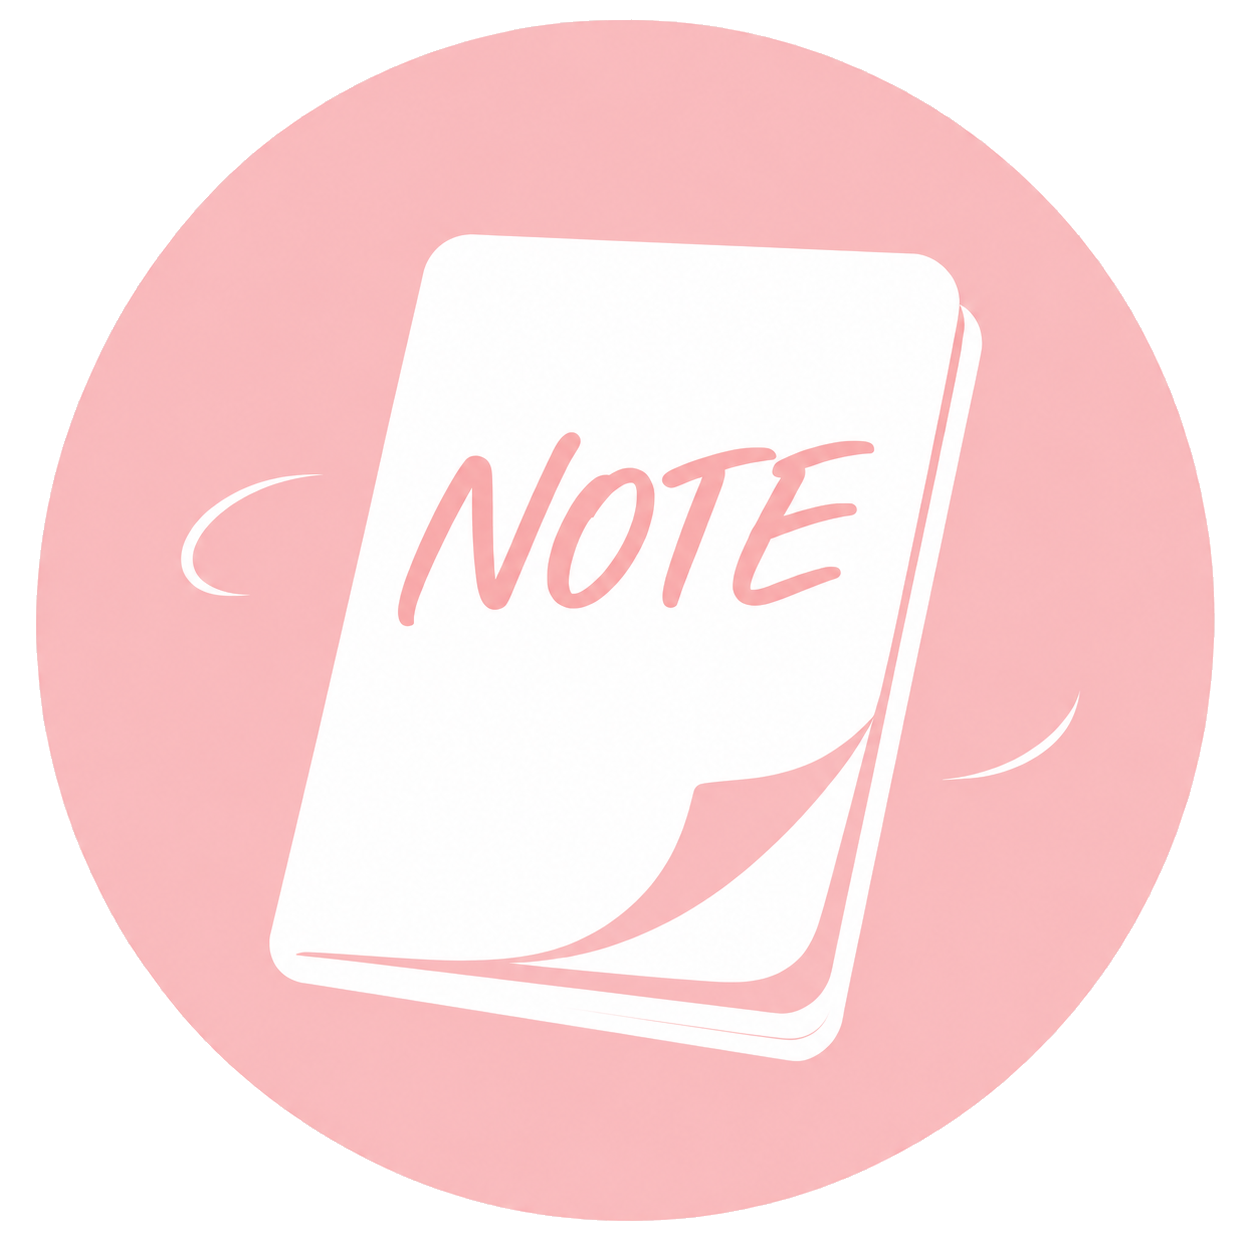
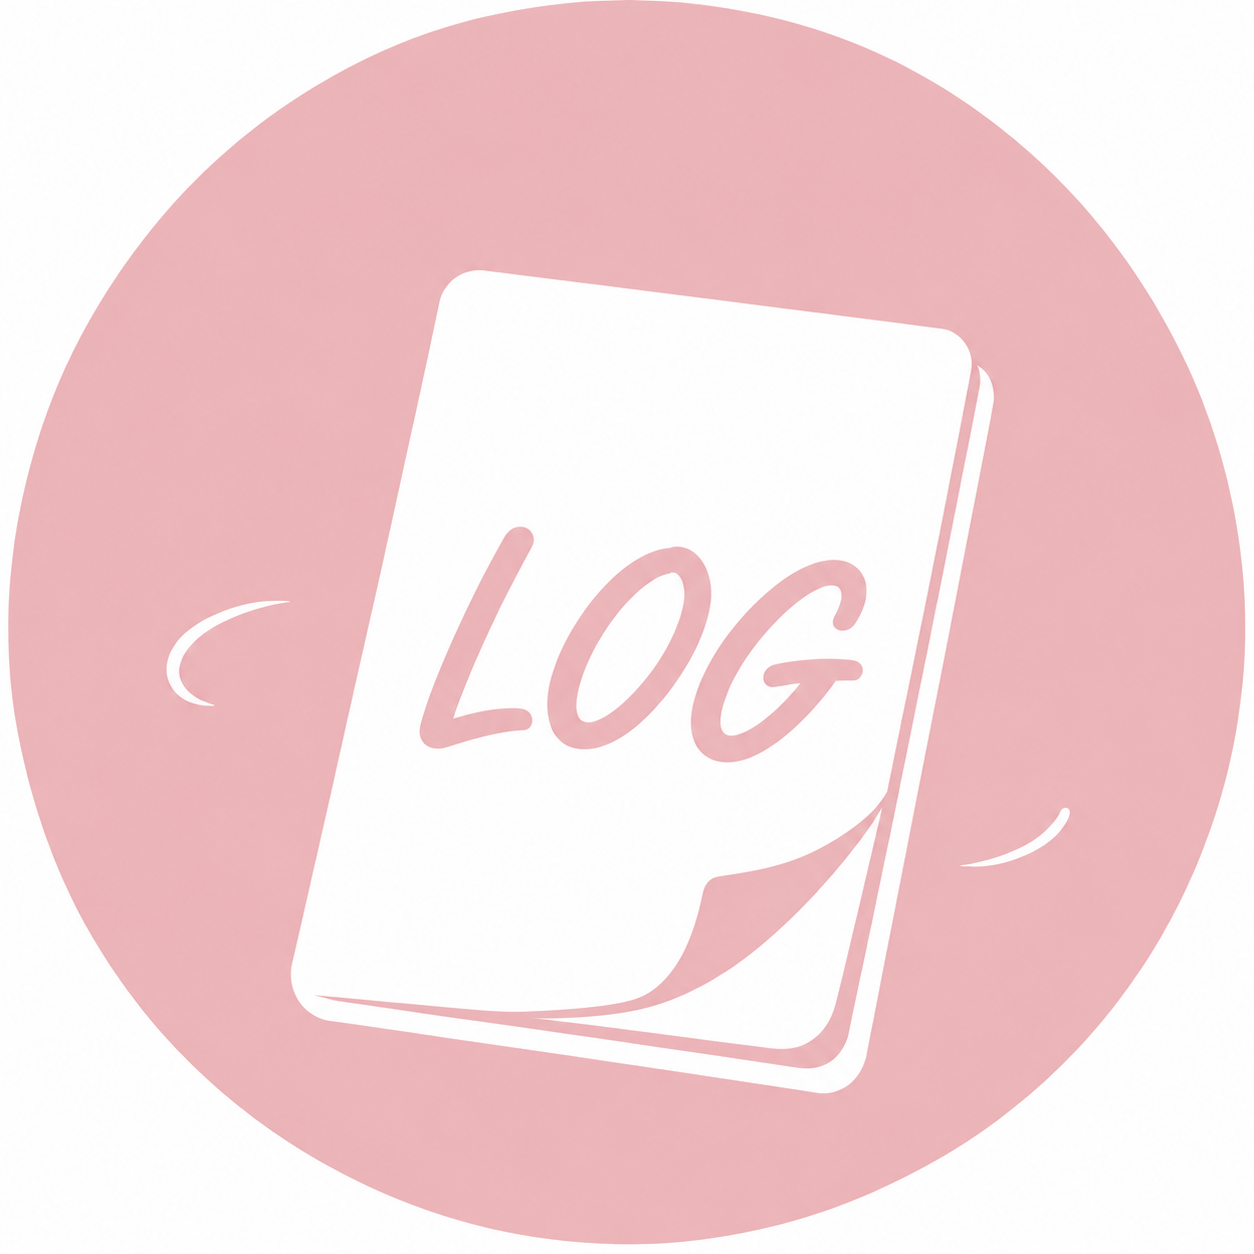
feat: 改名為 SPARK LOG，解決 bundle identifier 撞名問題
app.json 的 name/slug/scheme、android.package、ios.bundleIdentifier
都從 sparknotes/com.sparknotes.app 改成 sparklog/com.sparklog.app，
解決上次卡住的 Apple bundle ID 全域唯一性衝突（疑似跟 SparkNotes
品牌撞名）。

一併更新：
- App 圖示（icon.png、favicon.png）換成新設計的「LOG」版本
- 首頁標題、備份檔名前綴、分享對話框文字等使用者看得到的文字
- 本機 SQLite 資料庫檔名 sparknotes.db → sparklog.db（尚未上架，無
  真實使用者資料，安全）
- package.json name、README.md 標題

已知範圍外的缺口：Android adaptive icon 的三張圖層
（android-icon-foreground/background/monochrome.png）還是舊的
「NOTE」設計，因為只有拿到一張合併好的圖示、沒有分層素材，這次沒有
動；iOS/主要 icon 已經是新版。

diff --git a/app/settings.tsx b/app/settings.tsx
@@ -91,7 +91,7 @@ export default function SettingsScreen() {
       const zipBase64 = await buildBackupZip();
 
       const fileUri = await FileSystem.StorageAccessFramework.createFileAsync(
-        directoryUri, 'sparknotes-backup', 'application/zip',
+        directoryUri, 'sparklog-backup', 'application/zip',
       );
       await FileSystem.writeAsStringAsync(fileUri, zipBase64, { encoding: FileSystem.EncodingType.Base64 });
 
@@ -111,7 +111,7 @@ export default function SettingsScreen() {
   // iOS 沒有 StorageAccessFramework（那是 Android 專屬的「選擇資料夾」機制），
   // 存到 documentDirectory：因為 app.json 開了 UIFileSharingEnabled +
   // LSSupportsOpeningDocumentsInPlace，這個資料夾會直接出現在「檔案」App
-  // 的「我的 iPhone > SPARKNOTES」裡，不必依賴分享面板「儲存到檔案」是否
+  // 的「我的 iPhone > SPARK LOG」裡，不必依賴分享面板「儲存到檔案」是否
   // 真的有成功（之前用 cacheDirectory + 分享面板時，使用者反應存了之後在
   // 「檔案」App 裡完全搜不到）。分享面板仍然保留，方便直接傳給別人。
   const runExportShare = async () => {
@@ -120,21 +120,21 @@ export default function SettingsScreen() {
       const zipBase64 = await buildBackupZip();
 
       const stamp = new Date().toISOString().slice(0, 10);
-      const fileUri = `${FileSystem.documentDirectory}sparknotes-backup-${stamp}.zip`;
+      const fileUri = `${FileSystem.documentDirectory}sparklog-backup-${stamp}.zip`;
       await FileSystem.writeAsStringAsync(fileUri, zipBase64, { encoding: FileSystem.EncodingType.Base64 });
 
       await finishProgress();
 
       Alert.alert(
         '匯出完成',
-        `備份已存到「檔案」App 的「我的 iPhone / SPARKNOTES」資料夾（sparknotes-backup-${stamp}.zip）。\n\n也可以在接下來的分享視窗選擇傳送給其他 App。`,
+        `備份已存到「檔案」App 的「我的 iPhone / SPARK LOG」資料夾（sparklog-backup-${stamp}.zip）。\n\n也可以在接下來的分享視窗選擇傳送給其他 App。`,
       );
 
       const available = await Sharing.isAvailableAsync();
       if (available) {
         await Sharing.shareAsync(fileUri, {
           mimeType: 'application/zip',
-          dialogTitle: 'SPARKNOTE 備份',
+          dialogTitle: 'SPARK LOG 備份',
         });
       }
     } catch {

diff --git a/app/index.tsx b/app/index.tsx
@@ -10,7 +10,7 @@ export default function HomeScreen() {
 
   return (
     <SafeAreaView style={[styles.container, { backgroundColor: themeColor }]}>
-      <Text style={styles.title}>SPARK NOTE</Text>
+      <Text style={styles.title}>SPARK LOG</Text>
 
       <View style={styles.bottom}>
         <TouchableOpacity style={styles.settingsBtn} onPress={() => router.push('/settings')}>

diff --git a/src/__tests__/utils/exportImport.test.ts b/src/__tests__/utils/exportImport.test.ts
@@ -35,7 +35,7 @@ test('parseBackup throws on wrong version', () => {
 });
 
 test('photoFilename extracts the last path segment from a file URI', () => {
-  expect(photoFilename('file:///data/user/0/com.sparknotes.app/files/photos/abc.jpg')).toBe('abc.jpg');
+  expect(photoFilename('file:///data/user/0/com.sparklog.app/files/photos/abc.jpg')).toBe('abc.jpg');
 });
 
 test('photoFilename returns bare filenames unchanged', () => {

diff --git a/src/db/database.ts b/src/db/database.ts
@@ -4,7 +4,7 @@ let _db: SQLite.SQLiteDatabase | null = null;
 
 export async function getDb(): Promise<SQLite.SQLiteDatabase> {
   if (_db) return _db;
-  _db = await SQLite.openDatabaseAsync('sparknotes.db');
+  _db = await SQLite.openDatabaseAsync('sparklog.db');
   await migrate(_db);
   return _db;
 }

diff --git a/README.md b/README.md
@@ -1,2 +1,2 @@
-# SPARKNOTE
+# SPARK LOG
 專門針對自己的小本本，可以記錄讓自己心動不已的好店，或者絕對不要再踩雷的雷店，當成為自己之後購物或飲食的指標。